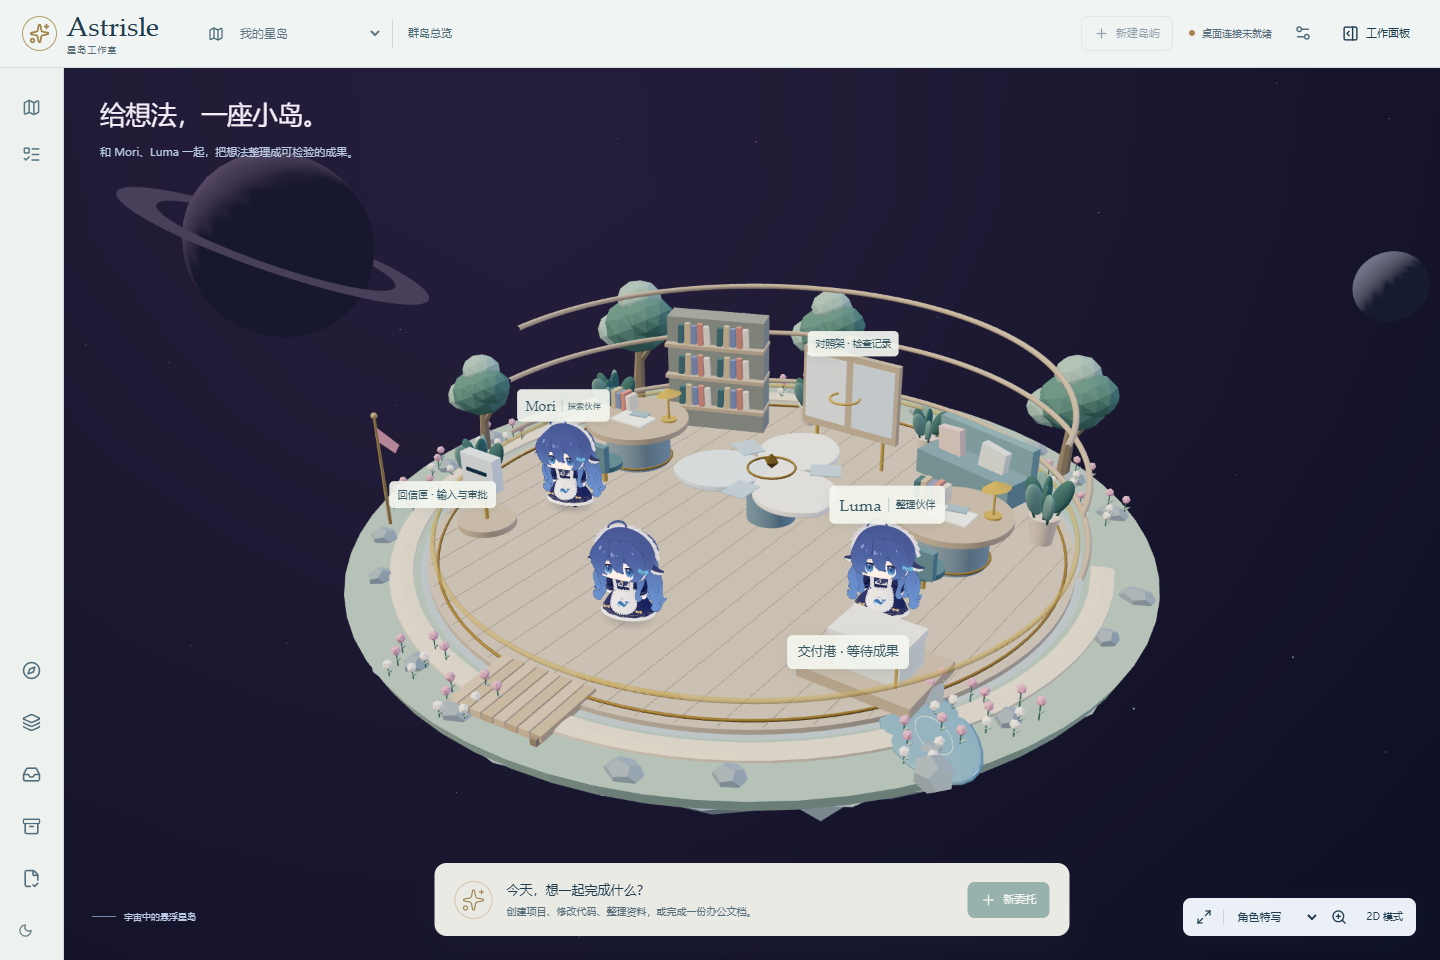
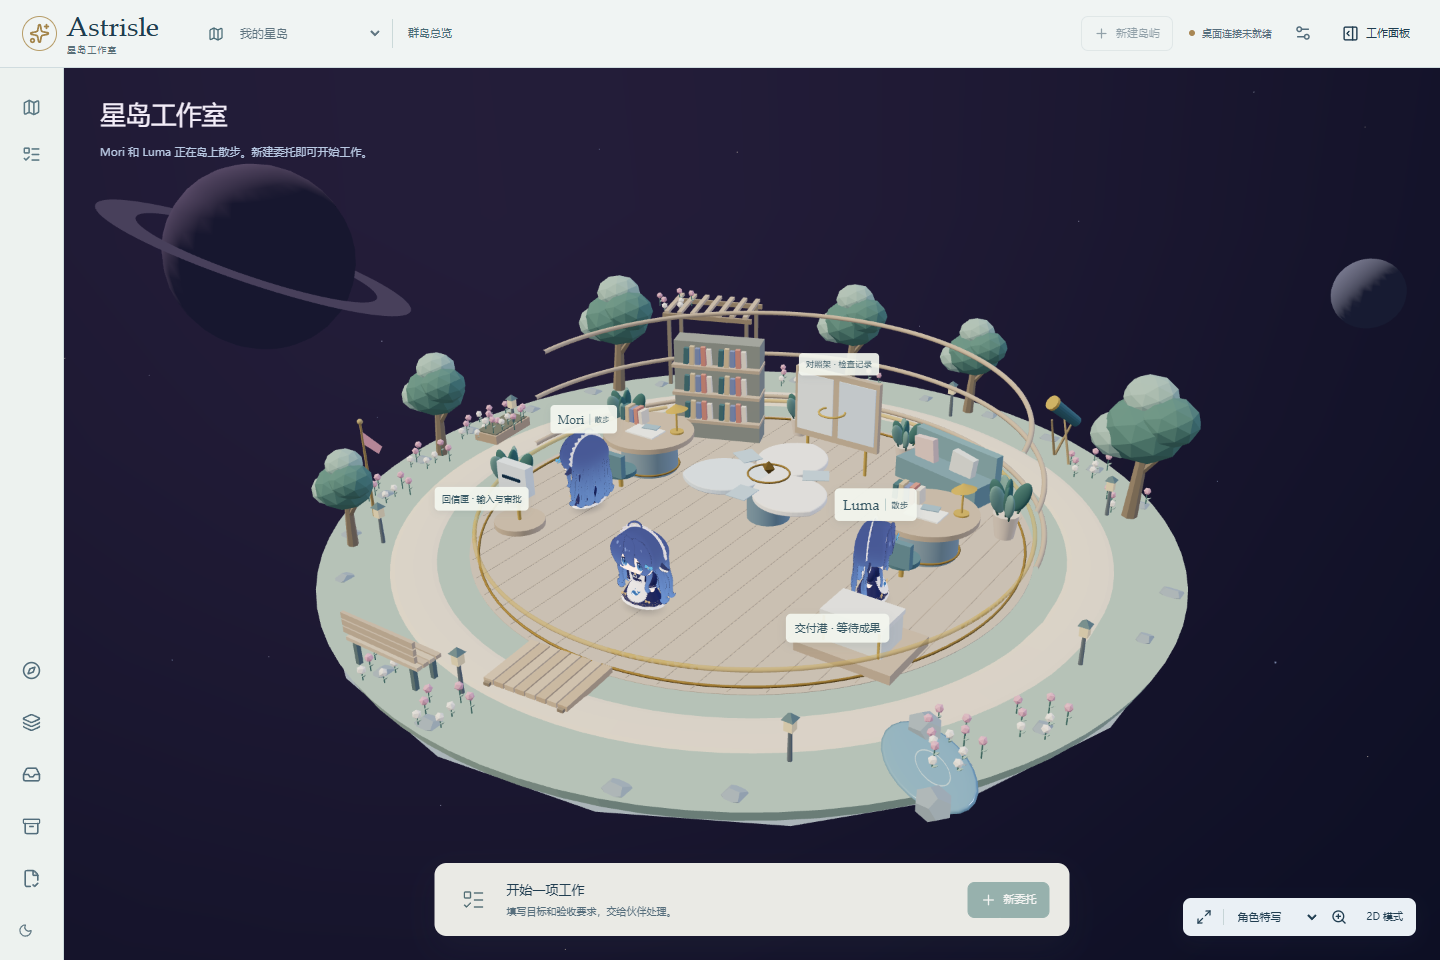
fix(studio): harden navigation, closeups and dense model interaction

diff --git a/tests/e2e/characters.spec.ts b/tests/e2e/characters.spec.ts
@@ -22,6 +22,38 @@ async function cameraAngle(page: Page) {
     return state?.gl.info.render.frame > 0 ? (state.controls?.getAzimuthalAngle() ?? null) : null;
   });
 }
+test('animated-mode closeups keep the selected character at its own home across switches', async ({
+  page,
+}) => {
+  await page.emulateMedia({ reducedMotion: 'no-preference' });
+  await page.goto('/');
+  await page.bringToFront();
+  for (const [id, x, z] of [
+    ['mori', -3.45, 1.2],
+    ['luma', 3.45, 1.2],
+    ['user', 0, 3.65],
+  ] as const) {
+    await page.getByLabel('角色特写').selectOption(id);
+    const read = () =>
+      page.evaluate(async (id) => {
+        const url = performance
+          .getEntriesByType('resource')
+          .find((entry) => entry.name.includes('/@react-three_fiber.js'))?.name;
+        if (!url) return null;
+        const { _roots } = await import(url),
+          state = _roots.get(document.querySelector('canvas'))?.store.getState();
+        return {
+          position: state?.scene.getObjectByName(`avatar-${id}`)?.position.toArray(),
+          frame: state?.gl.info.render.frame ?? 0,
+        };
+      }, id);
+    const first = await read();
+    await expect
+      .poll(async () => (await read())?.frame ?? 0)
+      .toBeGreaterThan((first?.frame ?? 0) + 1);
+    expect((await read())?.position).toEqual([x, 0.02, z]);
+  }
+});
 
 test('whale companions have selectable closeups and can return to the studio overview', async ({
   page,
@@ -37,10 +69,42 @@ test('whale companions have selectable closeups and can return to the studio ove
     await focus.selectOption(id);
     await expect(page.getByText(`${name} · 拖动旋转，滚轮缩放`, { exact: true })).toBeVisible();
     await expect(page.locator('.studio-canvas canvas')).toBeVisible();
+    const expected =
+      id === 'mori' ? [-3.45, 0.02, 1.2] : id === 'luma' ? [3.45, 0.02, 1.2] : [0, 0.02, 3.65];
+    await expect
+      .poll(() =>
+        page.evaluate(async (id) => {
+          const url = performance
+            .getEntriesByType('resource')
+            .find((entry) => entry.name.includes('/@react-three_fiber.js'))?.name;
+          if (!url) return null;
+          const { _roots } = await import(url);
+          return _roots
+            .get(document.querySelector('canvas'))
+            ?.store.getState()
+            .scene.getObjectByName(`avatar-${id}`)
+            ?.position.toArray();
+        }, id),
+      )
+      .toEqual(expected);
   }
   await page.getByRole('button', { name: '回到全景', exact: true }).click();
   await expect(focus).toHaveValue('');
-  await expect(page.getByText('宇宙中的悬浮星岛', { exact: true })).toBeVisible();
+  await expect
+    .poll(() =>
+      page.evaluate(async () => {
+        const url = performance
+          .getEntriesByType('resource')
+          .find((entry) => entry.name.includes('/@react-three_fiber.js'))?.name;
+        if (!url) return false;
+        const { _roots } = await import(url);
+        return !!_roots
+          .get(document.querySelector('canvas'))
+          ?.store.getState()
+          .scene.getObjectByName('island-landscape');
+      }),
+    )
+    .toBe(true);
   await page.screenshot({ path: 'test-results/whale-girl-studio.png', fullPage: true });
   expect(errors).toEqual([]);
 });

diff --git a/apps/client/src/island-motion.test.ts b/apps/client/src/island-motion.test.ts
@@ -1,11 +1,34 @@
 import { expect, it } from 'vitest';
 import {
+  STATION_POINTS,
   findIslandRoute,
   isWalkable,
   segmentIsWalkable,
   createWalker,
   advanceWalker,
 } from './island-motion';
+it('keeps every real collaboration station reachable from both companion homes', () => {
+  for (const target of Object.values(STATION_POINTS))
+    for (const home of [
+      [-3.45, 1.2],
+      [3.45, 1.2],
+    ] as [number, number][]) {
+      expect(isWalkable(target), `unwalkable station ${target}`).toBe(true);
+      const route = findIslandRoute(home, target);
+      expect(route.length, `unreachable station ${target}`).toBeGreaterThan(0);
+    }
+});
+it('drops the old path when reduced motion snaps to a station before resuming', () => {
+  const state = createWalker('mori', [7.1, 0]),
+    target: [number, number] = [2.5, 2.7];
+  advanceWalker(state, 1 / 30, { roaming: false, target });
+  advanceWalker(state, 1 / 30, { roaming: false, target, reduced: true });
+  for (let i = 0; i < 120; i++) {
+    advanceWalker(state, 1 / 30, { roaming: false, target });
+    expect(isWalkable(state.position)).toBe(true);
+  }
+  expect(state.position).toEqual(target);
+});
 
 it('routes around the central table and desks while remaining on the island', () => {
   const from: [number, number] = [-3.45, 1.2],

diff --git a/apps/client/src/Scene.tsx b/apps/client/src/Scene.tsx
@@ -23,7 +23,7 @@ import { CosmicBackdrop } from './CosmicBackdrop';
 import { SceneFrameBudget, useSceneActivity } from './render-budget';
 import { SceneQualityContext, useScenePixelRatio } from './render-quality';
 import type { SceneQuality } from './render-quality';
-import { advanceWalker, createWalker } from './island-motion';
+import { advanceWalker, createWalker, STATION_POINTS } from './island-motion';
 import { Confetti } from './Confetti';
 
 const c = {
@@ -273,12 +273,9 @@ function StarTable({ active, onClick }: { active: boolean; onClick: () => void }
     </group>
   );
 }
-const anchors: Record<string, V3> = {
-  table: [-1.65, 0, 1.4],
-  compare: [1.8, 0, -2.5],
-  dock: [2.5, 0, 2.7],
-  mail: [-3.0, 0, 3.0],
-};
+const anchors: Record<string, V3> = Object.fromEntries(
+  Object.entries(STATION_POINTS).map(([name, [x, z]]) => [name, [x, 0, z] as V3]),
+);
 /** One tiny draw instead of rendering the whole island into a shadow framebuffer. */
 function GroundShadow() {
   return (
@@ -483,6 +480,7 @@ function World({
         />
         <CameraRig reset={reset} fixed={fixed} focus={focus} />
         <Avatar
+          key={focus}
           id={focus}
           profile={profileFor(focus)}
           home={home}

diff --git a/apps/client/src/island-motion.ts b/apps/client/src/island-motion.ts
@@ -1,6 +1,12 @@
 export type GroundPoint = [number, number];
 export const ISLAND_RADIUS = 9;
 export const PROMENADE_RADIUS = 7.1;
+export const STATION_POINTS: Record<string, GroundPoint> = {
+  table: [-1.65, 1.4],
+  compare: [0, -5.3],
+  dock: [2.5, 2.7],
+  mail: [-3, 3],
+};
 // Furniture footprints, expanded by a companion's clearance in isWalkable.
 const obstacles: [number, number, number][] = [
   [0, -0.65, 1.72],
@@ -133,7 +139,11 @@ export function advanceWalker(
   if (options.active === false || options.preview || options.reduced) {
     state.speed = 0;
     state.strength = 0;
-    if (options.reduced && options.target && !options.roaming) state.position = [...options.target];
+    if (options.reduced && options.target && !options.roaming) {
+      if (isWalkable(options.target)) state.position = [...options.target];
+      state.route = [];
+      state.key = '';
+    }
     return state;
   }
   const key = options.roaming ? 'roam' : (options.target?.join(',') ?? 'stay');

diff --git a/apps/client/src/characters/model-cache.ts b/apps/client/src/characters/model-cache.ts
@@ -89,7 +89,14 @@ function prepare(gltf: GLTF): SharedCharacterModel {
         if (!templates.has(angle))
           templates.set(angle, createProceduralGaitTemplate(model.instantiate(), angle));
         const template = templates.get(angle);
-        if (template) return clone(template) as THREE.Group;
+        if (template) {
+          const instance = clone(template) as THREE.Group;
+          // Object3D cloning does not copy instance method overrides.
+          instance.traverse((object) => {
+            if (object instanceof THREE.Mesh) object.raycast = () => {};
+          });
+          return instance;
+        }
       }
       // SkeletonUtils gives each avatar independent bones while sharing geometry and textures.
       const scene = clone(gltf.scene);

diff --git a/apps/client/src/characters/model-cache.test.ts b/apps/client/src/characters/model-cache.test.ts
@@ -14,6 +14,9 @@ describe('shared custom character resources', () => {
     const first = a.getObjectByProperty('isSkinnedMesh', true) as THREE.SkinnedMesh;
     const second = b.getObjectByProperty('isSkinnedMesh', true) as THREE.SkinnedMesh;
     expect(first.geometry).toBe(second.geometry);
+    a.updateMatrixWorld(true);
+    const ray = new THREE.Raycaster(new THREE.Vector3(0, 1, 5), new THREE.Vector3(0, 0, -1));
+    expect(ray.intersectObject(a, true).length).toBe(0);
     expect(first.skeleton.bones[0]).not.toBe(second.skeleton.bones[0]);
     let disposals = 0;
     first.geometry.addEventListener('dispose', () => disposals++);

diff --git a/docs/superpowers/plans/2026-11-14-island-life.md b/docs/superpowers/plans/2026-11-14-island-life.md
@@ -32,10 +32,10 @@
 
 **Interfaces:** `createProceduralGaitTemplate(root, rotationY)` returns a shared rig template or null; per-clone skeletons remain independent. `poseProceduralGait(root, motion)` consumes distance-driven phase/strength. Navigation uses a bounded island and obstacle footprints with pure route/step functions.
 
-- [ ] Write failing tests for rest-pose/UV preservation, real foot deformation with stable head, unsupported static geometry, independent clones and no leaked shared geometry.
-- [ ] Implement conservative rig inference and cache it per asset/orientation; inspect the current model in an isolated preview.
-- [ ] Write/run navigation tests for obstacle avoidance, island boundary, smooth turns/stops and stationary reduced/preview states; implement and connect ambient walking with real task priority.
-- [ ] Run focused tests and type checks, then commit.
+- [x] Test rest-pose/UV preservation, real foot deformation with stable head, unsupported static geometry, independent clones and shared-resource retirement; foot and garment defects reproduced before correction.
+- [x] Implement conservative rig inference and cache it per asset/orientation; inspect the current model in an isolated preview.
+- [x] Test navigation, island boundary, turns/stops and stationary reduced/preview states; connect ambient walking with real task priority.
+- [x] Run focused tests and type checks; implementation checkpoint `4230416`.
 
 ## Task 2: Expanded island and completion celebration
 
@@ -43,14 +43,14 @@
 
 **Interfaces:** completion transition checks commission ID/revision/status; confetti uses a bounded burst token and self-expires. App exposes manual celebration only for accepted work.
 
-- [ ] Write failing transition tests (live acceptance once; partial/history/switch/reload never automatic), then implement controller and bounded particles.
-- [ ] Expand the island/paths and add restrained garden/rest/stargazing details; keep routes clear and interactive work stations accessible.
-- [ ] Connect celebration control, reduced-motion feedback and concise functional labels.
-- [ ] Verify actual roaming, skeletal motion, task interruption, reduced motion, button/particle cleanup and narrow layout in browser tests; commit.
+- [x] Test live acceptance once and no automatic historical/partial/switch replay; implement controller and bounded particles.
+- [x] Expand the island/paths and add restrained garden/rest/stargazing details; keep routes clear and interactive work stations accessible.
+- [x] Connect celebration control, reduced-motion feedback and concise functional labels.
+- [x] Verify actual roaming, skeletal motion, task interruption, reduced motion, button/particle cleanup and narrow layout in browser tests; commit.
 
 ## Task 3: Visual inspection, review and delivery
 
-- [ ] Batch desktop/narrow/private-model screenshots and inspect walking frames. Fix material issues in one pass and confirm once.
-- [ ] Run the Impeccable detector on changed UI targets; use project context to judge findings rather than changing unrelated surfaces.
-- [ ] Run full JS, Office, build, UI and formatting checks; obtain independent review and fix material findings with regression tests.
-- [ ] Update README and stage handoff with actual results and model limitations; commit locally and leave the branch ready for review.
+- [x] Inspect desktop/narrow/private-model frames; fix stance/garment/navigation defects. An extra unobstructed model-only confirmation was needed for a material garment defect, documented in the stage record.
+- [x] Run the Impeccable detector once on changed UI targets; no findings.
+- [x] Verify 176 JS, 10 Office and 15 desktop/UI tests; build/type/format/diff pass. Independent review's four Important findings reproduced and fixed; no deferred Minor findings.
+- [x] Update README and stage handoff with actual results and model limitations; commit locally and retain the branch for review.

diff --git a/docs/development/stage-7.md b/docs/development/stage-7.md
@@ -22,9 +22,13 @@
 
 ## 验证与审查
 
-- JS：25 个文件、174 项通过；新增 14 项覆盖骨骼原姿态/脚部实际变形/长裙、共享资源释放、导航与动作连续性、真实完成事件。
-- 新增 3 项浏览器测试已通过：实际骨骼散步及任务打断、减少动效/手动重播、真实验收事件触发与清理。
-- 完整桌面/UI 回归及最终独立审查在收尾时补充。构建中保留已有大 chunk 和 SQLite experimental 提示。
+- JS：25 个文件、176 项通过；本阶段新增 16 项，覆盖骨骼原姿态/脚部实际变形/长裙、共享资源释放、导航与动作连续性、真实完成事件及审查回归。
+- 完整桌面/UI：15 项通过；新增 4 项覆盖实际骨骼散步及任务打断、减少动效/手动重播、真实验收事件触发与清理，以及普通动效下连续切换特写。旧测试原先用装饰标语判断全景，现直接核对实际岛屿场景对象。
+- Office Python：本会话 10 项通过，办公实现未在场景阶段修改。总计 201 项自动化测试。构建、类型、格式和差异检查通过；保留已有大 chunk 和 SQLite experimental 提示。
 - Impeccable 对改动界面的检测结果为空；以实际画面和交互验证为主，不视为完整可访问性认证。
+
+独立审查提出 4 项 Important，均已用失败测试复现并修复：复核站点进入障碍净空区（改用可达位置并统一站点坐标）；减少动效定位后保留旧路径（清空路径并重新规划）；普通动效下切换特写复用上个角色的位置（按角色身份挂载）；骨骼克隆丢失低成本 raycast 覆盖（克隆后重新应用，避免密集网格逐三角形命中检测）。修复后完整 JS、构建、15 项桌面/UI 与格式检查通过，没有遗留审查 Minor。
+
+实际私有模型的视觉检查和一次性适配耗时由主实施者完成；审查者没有重复这些检查，也未进行长期 GPU 测量。专业通用自动绑骨与无关界面重设计不在本阶段范围。代码已保存到本地功能分支，不自动推送、合并或发布。
 
 任务运行、权限、成果验收与角色散步相互独立。第六阶段的安全写回、真实模型任务验收、正式安装包和长期资源验收边界继续保留。
